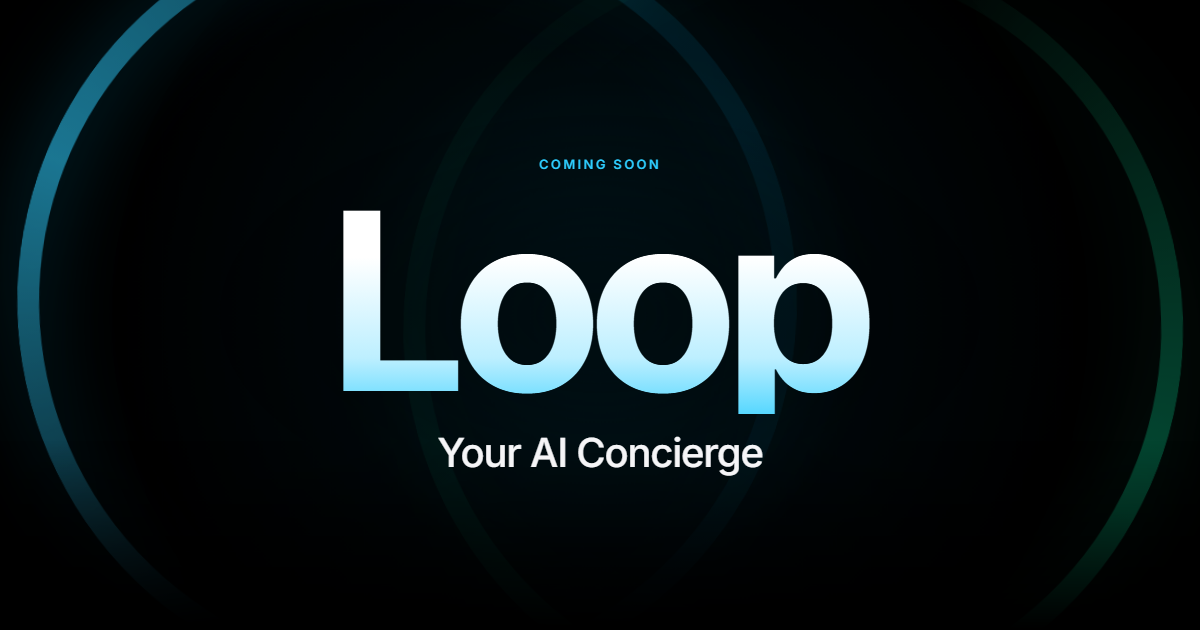
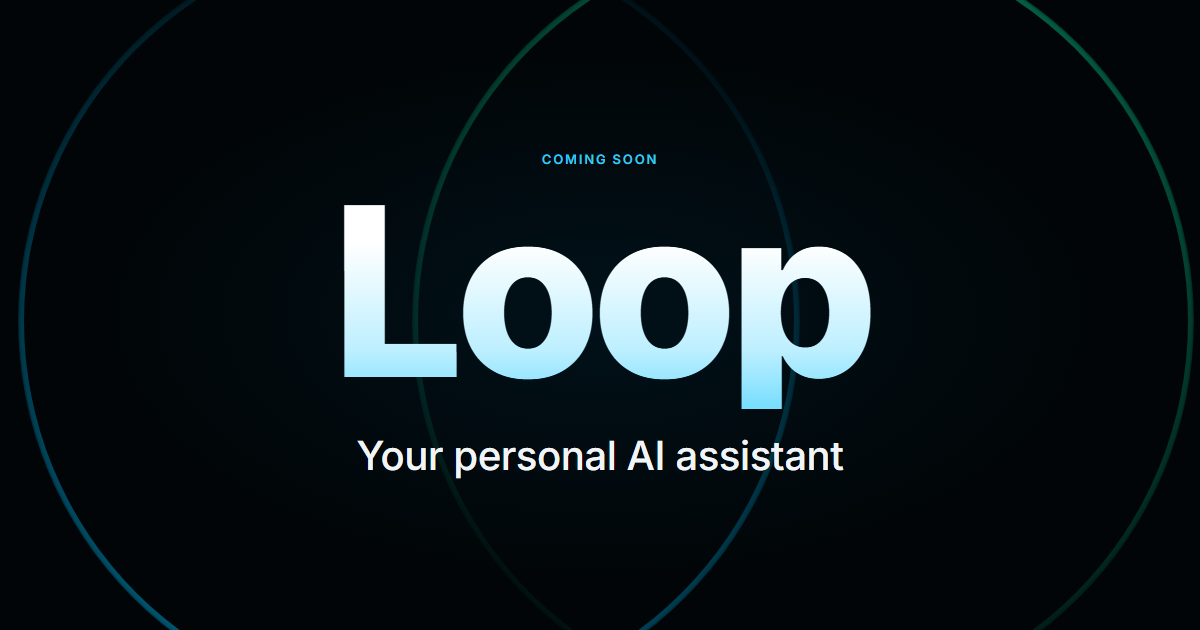
Copy: 'Your personal AI assistant that keeps you in the loop' replaces 'AI Concierge' (title, hero, share card, meta); privacy names Ask Loop

diff --git a/index.html b/index.html
@@ -3,26 +3,26 @@
 <head>
   <meta charset="UTF-8">
   <meta name="viewport" content="width=device-width, initial-scale=1.0, viewport-fit=cover">
-  <title>Loop – AI Concierge</title>
-  <meta name="description" content="Loop predicts the people and places you'll love and keeps you connected to them, learning your taste over time. Loop – AI Concierge is coming soon.">
+  <title>Loop – Your Personal AI Assistant</title>
+  <meta name="description" content="Your personal AI assistant that keeps you in the loop. Loop predicts the people and places you'll love, learns your taste over time, and tells you while there's still time to say yes. Coming soon.">
   <meta name="theme-color" content="#000000">
   <meta name="color-scheme" content="dark">
-  <meta property="og:title" content="Loop – Your AI Concierge">
-  <meta property="og:description" content="The AI assistant that knows you. Loop predicts the people and places you'll love, and makes sure you never miss them. Stay in the loop.">
+  <meta property="og:title" content="Loop – Your personal AI assistant">
+  <meta property="og:description" content="Your personal AI assistant that keeps you in the loop. Part concierge, part planner — it predicts the people and places you'll love and makes sure you never miss them.">
   <meta property="og:type" content="website">
   <meta property="og:url" content="https://loopaiapp.com/">
   <link rel="icon" type="image/svg+xml" href="assets/loop-logo.svg">
   <link rel="icon" type="image/png" href="assets/favicon.png">
   <link rel="apple-touch-icon" href="assets/apple-touch-icon.png">
   <meta property="og:site_name" content="Loop">
-  <meta property="og:image" content="https://loopaiapp.com/assets/og-loop.png">
+  <meta property="og:image" content="https://loopaiapp.com/assets/og-loop.png?v=2">
   <meta property="og:image:width" content="1200">
   <meta property="og:image:height" content="630">
-  <meta property="og:image:alt" content="Loop, your AI Concierge — coming soon.">
+  <meta property="og:image:alt" content="Loop, your personal AI assistant — coming soon.">
   <meta name="twitter:card" content="summary_large_image">
-  <meta name="twitter:title" content="Loop – Your AI Concierge">
-  <meta name="twitter:description" content="The AI assistant that knows you. Loop predicts the people and places you'll love, and makes sure you never miss them.">
-  <meta name="twitter:image" content="https://loopaiapp.com/assets/og-loop.png">
+  <meta name="twitter:title" content="Loop – Your personal AI assistant">
+  <meta name="twitter:description" content="Your personal AI assistant that keeps you in the loop. Part concierge, part planner — it predicts the people and places you'll love and makes sure you never miss them.">
+  <meta name="twitter:image" content="https://loopaiapp.com/assets/og-loop.png?v=2">
   <link rel="preconnect" href="https://fonts.googleapis.com">
   <link rel="preconnect" href="https://fonts.gstatic.com" crossorigin>
   <link rel="stylesheet" href="https://fonts.googleapis.com/css2?family=Inter:wght@300;400;500;600;700;800&display=swap">
@@ -55,8 +55,8 @@
       <div class="hero-inner">
         <p class="eyebrow reveal">Coming soon</p>
         <h1 id="hero-title" class="display reveal" style="--d:1">Loop</h1>
-        <p class="hero-sub reveal" style="--d:2">Your AI Concierge</p>
-        <p class="hero-promise reveal" style="--d:3">The AI assistant that knows you. It predicts the people and places you&rsquo;ll love &mdash; and makes sure you never miss them.</p>
+        <p class="hero-sub reveal" style="--d:2">Your personal AI assistant that keeps you in the loop</p>
+        <p class="hero-promise reveal" style="--d:3">Part concierge, part planner &mdash; it predicts the people and places you&rsquo;ll love and makes sure you never miss them.</p>
         <div class="reveal" style="--d:4">
           <a class="pill" href="mailto:support@loopaiapp.com?subject=Notify%20me">Get notified</a>
         </div>

diff --git a/privacy.html b/privacy.html
@@ -51,13 +51,13 @@
     <ul>
       <li><strong>Google Sign-In / Facebook Login:</strong> basic profile information (name, email, profile photo) if you choose social sign-in, via Supabase Auth.</li>
       <li><strong>Google Places API:</strong> venue names, locations, ratings, hours, and photos that power recommendations. This data originates from Google and is subject to Google's own privacy policy.</li>
-      <li><strong>Google Gemini API:</strong> when you use the AI concierge/chat, your query text (and relevant context such as your stated preferences or location) is sent to Google's Gemini API to generate a response and activity descriptions.</li>
+      <li><strong>Google Gemini API:</strong> when you use Ask Loop (the AI chat), your query text (and relevant context such as your stated preferences or location) is sent to Google's Gemini API to generate a response and activity descriptions.</li>
     </ul>
 
     <h2>3. How We Use Your Information</h2>
     <ul>
       <li>Provide personalized activity and event recommendations based on your interests, location, schedule, and feedback history.</li>
-      <li>Power the AI concierge chat and generate activity descriptions.</li>
+      <li>Power Ask Loop (the AI chat) and generate activity descriptions.</li>
       <li>Show your calendar and detect free time for suggestions.</li>
       <li>Enable social features: friends, group planning, and in-app messaging.</li>
       <li>Process subscription and business-listing payments.</li>
